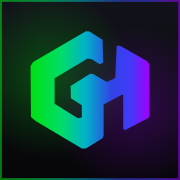
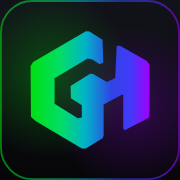
As linhas do ATO 0 drenam para o centro, e a borda do ícone sobrevive à máscara
Dois relatos dele, e nos dois o defeito não era onde parecia.

## AS LINHAS

*"Ao fim das animações as linhas somem aos poucos, mas fica uns pontos
estranhos ali no meio."* E junto: *"tem uma verde que parou no meio da
trajetória."* São dois defeitos, e o segundo explica o primeiro.

1. O DESBOTAMENTO PARADO. O traço chegava ao centro em 56% do ciclo e só
   então perdia opacidade, até 74% — 2,3 s desbotando inteiro e imóvel.
   Com cinco atrasos diferentes, sempre havia traços em fases distintas,
   e o que sobrava perto do centro eram pedaços fracos de várias linhas
   ao mesmo tempo. Os "pontos estranhos".

   O conserto não é apagar mais rápido: é apagar pelo LADO CERTO. O
   `dashoffset` agora vai a NEGATIVO — a cauda entra atrás da cabeça, a
   linha some pela ponta de fora e o último pedaço visível é o do
   centro. Absorvida, não desbotada. E como nunca fica parada, não sobra
   nada no meio.

2. A LINHA QUE PARAVA. `stroke-dasharray` é medido em unidades do
   `viewBox`, e as cinco têm comprimentos reais diferentes (~26 a ~42).
   Pior: com `preserveAspectRatio="none"` o `viewBox` é esticado
   DESIGUALMENTE, então o comprimento efetivo muda com a proporção da
   tela. `pathLength="100"` normaliza — traço e dasharray passam a falar
   a mesma língua.

MEDIDO em navegador, um ciclo inteiro: cada traço percorre
100 -> 0 -> -100 sem parar em nenhum valor, escalonados pelos atrasos.

## A BORDA DO ÍCONE
[…]

diff --git a/src/lib/__tests__/sinaisDoAtoZero.test.js b/src/lib/__tests__/sinaisDoAtoZero.test.js
@@ -290,3 +290,69 @@ describe('as ligações do ATO 0 são ENERGIA, e existem no celular', () => {
     ).toBe(true);
   });
 });
+
+describe('as ligações do ATO 0 são ABSORVIDAS, não desbotam', () => {
+  const SINAIS = 'src/components/landing/prologo/SinaisDeVida.jsx';
+  const CSS = 'src/estilos/sinaisDeVida.css';
+
+  it('o traço DRENA para o centro — `dashoffset` chega a negativo', () => {
+    // `[12/09]` *"Ao fim das animações as linhas somem aos poucos, mas fica uns
+    // pontos estranhos ali no meio."*
+    //
+    // A causa: o traço chegava ao centro e ficava 2,3 s desbotando INTEIRO e
+    // imóvel. Com cinco atrasos diferentes, sempre havia pedaços fracos de
+    // várias linhas ao mesmo tempo perto do centro.
+    //
+    // Levar o `dashoffset` a negativo faz a cauda entrar atrás da cabeça: a
+    // linha some pela ponta de FORA e o último pedaço visível é o do centro.
+    // Absorvida, não apagada.
+    const css = FONTE(CSS);
+    const quadro = css.slice(css.indexOf('@keyframes tracoDeConexao'));
+    const bloco = quadro.slice(0, quadro.indexOf('\n}'));
+    expect(
+      /stroke-dashoffset:\s*-\d/.test(bloco),
+      'O traço voltou a DESBOTAR em vez de drenar.\n'
+      + '  Sem `dashoffset` negativo ele chega ao centro e fica parado perdendo\n'
+      + '  opacidade — e como os cinco têm atrasos diferentes, sobram pedaços\n'
+      + '  fracos de várias linhas no meio ao mesmo tempo. Foi exatamente isso\n'
+      + '  que o dono chamou de "pontos estranhos ali no meio".',
+    ).toBe(true);
+  });
+
+  it('a opacidade não faz o trabalho de apagar', () => {
+    // A trava do desbotamento longo: entre o quadro em que o traço está
+    // INTEIRO (dashoffset 0) e o quadro em que ele começa a sumir, a opacidade
+    // precisa continuar em 1 — quem apaga é a geometria.
+    const css = FONTE(CSS);
+    const quadro = css.slice(css.indexOf('@keyframes tracoDeConexao'));
+    const bloco = quadro.slice(0, quadro.indexOf('\n}'));
+
+    const cheio = bloco.match(/(\d+)%\s*\{\s*stroke-dashoffset:\s*0(?:px)?;\s*opacity:\s*([\d.]+)/);
+    expect(cheio, 'Não achei o quadro do traço INTEIRO — a trava ficaria vazia.').toBeTruthy();
+    expect(
+      Number(cheio[2]),
+      `No instante em que o traço está inteiro (${cheio[1]}%) a opacidade já é `
+      + `${cheio[2]}.\n`
+      + '  Ele precisa chegar ao centro em opacidade CHEIA e sumir pela\n'
+      + '  geometria. Opacidade caindo com o traço inteiro é o desbotamento\n'
+      + '  parado que produziu os "pontos estranhos".',
+    ).toBe(1);
+  });
+
+  it('toda linha mede o MESMO comprimento para o tracejado', () => {
+    // `[12/09]` *"Tem uma verde que parou no meio da trajetória."*
+    //
+    // `stroke-dasharray` é medido em unidades do `viewBox`, e as cinco linhas
+    // têm comprimentos reais diferentes (~26 a ~42). Com
+    // `preserveAspectRatio="none"` o `viewBox` ainda é esticado DESIGUALMENTE,
+    // então o comprimento efetivo muda com a proporção da tela.
+    expect(
+      /pathLength="100"/.test(FONTE(SINAIS)),
+      'As ligações perderam o `pathLength="100"`.\n'
+      + '  Sem ele, o `stroke-dasharray: 100` do CSS significa uma fração\n'
+      + '  diferente em cada linha — e muda de novo conforme a proporção da\n'
+      + '  tela, porque o SVG não preserva o aspecto. O sintoma é uma linha\n'
+      + '  desenhando até o meio e parando.',
+    ).toBe(true);
+  });
+});

diff --git a/src/estilos/sinaisDeVida.css b/src/estilos/sinaisDeVida.css
@@ -77,13 +77,36 @@
 /* `[12/09]` A opacidade de pico subiu de 0,6 para 1: *"senti elas bem
  * apagadinhas"*. O gradiente já faz o traço nascer transparente na borda, então
  * 1 aqui não vira uma linha chapada — vira a ponta chegando no centro com
- * força, que é o pedido dele de *"energia se concentrando ali no meio"*. */
+ * força, que é o pedido dele de *"energia se concentrando ali no meio"*.
+ *
+ * ── `[12/09]` O traço DRENA para o centro; ele não desbota mais ─────────────
+ *
+ * Ele viu e descreveu certo: *"ao fim das animações as linhas somem aos poucos,
+ * mas fica uns pontos estranhos ali no meio, fica feio. Arruma um jeito dessas
+ * linhas sumirem logo após chegarem ao centro"*.
+ *
+ * **O que estava acontecendo.** O traço chegava ao centro em 56% e só então
+ * começava a perder opacidade, até 74% — 2,3 s desbotando **parado e inteiro**.
+ * Como os cinco têm atrasos diferentes, em qualquer instante havia traços em
+ * fases distintas de desbotamento, e o que sobrava perto do centro eram
+ * pedaços fracos de várias linhas ao mesmo tempo: os "pontos estranhos".
+ *
+ * **O conserto não é apagar mais rápido — é apagar pelo LADO CERTO.** Levando o
+ * `dashoffset` para NEGATIVO, a cauda entra atrás da cabeça: a linha some a
+ * partir da ponta de fora, e o último pedaço visível é o que está no centro.
+ * Ela é **absorvida** em vez de desbotar, que é a leitura que ele pediu — e não
+ * sobra nada parado no meio, porque em nenhum momento a linha fica parada.
+ *
+ * A opacidade só cai DEPOIS de o traço já ter sumido pela geometria, então ela
+ * não desenha nada: existe apenas para reiniciar o ciclo limpo. */
 @keyframes tracoDeConexao {
-  0%,  34% { stroke-dashoffset: 100; opacity: 0; }
-  42%      { opacity: 1; }
-  56%      { stroke-dashoffset: 0; opacity: 1; }
-  74%      { stroke-dashoffset: 0; opacity: 0; }
-  100%     { stroke-dashoffset: 100; opacity: 0; }
+  0%,  30% { stroke-dashoffset: 100;  opacity: 0; }
+  33%      { stroke-dashoffset: 100;  opacity: 1; }
+  /* chegou ao centro */
+  50%      { stroke-dashoffset: 0;    opacity: 1; }
+  /* a cauda entra atrás: a linha é sugada para dentro */
+  64%      { stroke-dashoffset: -100; opacity: 1; }
+  65%, 100% { stroke-dashoffset: -100; opacity: 0; }
 }
 
 /* O núcleo respira devagar — 5,2 s, mais lento que qualquer outra coisa da
@@ -115,8 +138,15 @@
  * 2,8 s), os cinco nascem acesos e apagam **um a um**, na ordem do atraso.
  *
  * Medido antes do conserto, em navegador: aos 400 ms, 4 dos 5 traços estavam
- * com opacidade 1 e `dashoffset` 0 — ou seja, desenhados por inteiro. Aos
- * 3.200 ms, zero. Os tempos batem exatamente com os atrasos.
+ * com **opacidade 1**; aos 3.200 ms, zero. Os tempos batem exatamente com os
+ * atrasos (0,7 · 1,4 · 2,1 · 2,8 s), que é o que prova o mecanismo.
+ *
+ * > **Correção do mesmo dia:** a primeira redação desta nota dizia "opacidade 1
+ * > e `dashoffset` 0". O segundo número era artefato do MEU instrumento —
+ * > `getComputedStyle` devolve `"100px"`, e o `Number()` que eu usei virava
+ * > `NaN`, que o `|| 0` transformava em zero. A opacidade (sem unidade) foi
+ * > medida corretamente e sustenta o diagnóstico sozinha; o `dashoffset`
+ * > daquela leitura não valia nada e saiu daqui.
  *
  * `backwards` manda aplicar o quadro de 0% JÁ durante o atraso. Uma palavra.
  *

diff --git a/src/components/landing/prologo/SinaisDeVida.jsx b/src/components/landing/prologo/SinaisDeVida.jsx
@@ -288,6 +288,22 @@ export default function SinaisDeVida({ progresso }) {
             // dos chips. A convergência do hero usa 1,4 pelo mesmo motivo.
             stroke={`url(#ligacao-${i})`} strokeWidth="1.6"
             vectorEffect="non-scaling-stroke"
+            // `[12/09]` `pathLength="100"` NORMALIZA o comprimento de cada
+            // linha para 100, e sem isso o tracejado não é confiável aqui.
+            //
+            // As cinco têm comprimentos reais diferentes (de ~26 a ~42
+            // unidades do `viewBox`), e o `stroke-dasharray: 100` do CSS é
+            // medido nessas unidades. Pior: o SVG usa
+            // `preserveAspectRatio="none"`, então o `viewBox` é esticado de
+            // forma DESIGUAL — o comprimento efetivo muda com a proporção da
+            // tela. O resultado é cada linha desenhando e drenando num ritmo
+            // próprio, e foi o que o dono viu: *"tem uma verde que parou no
+            // meio da trajetória até o meio"*.
+            //
+            // Com `pathLength`, o navegador passa a tratar toda linha como se
+            // medisse 100. O traço e o dasharray passam a falar a mesma língua,
+            // e as cinco entram e saem no mesmo tempo relativo.
+            pathLength="100"
             style={{ animationDelay: atraso, filter: `drop-shadow(0 0 3px ${cor}aa)` }}
           />
         ))}

diff --git a/docs/DECISOES.md b/docs/DECISOES.md
@@ -2195,9 +2195,9 @@ atrasos escalonados, somem em cascata.
 
 **Medido em navegador antes do conserto**, e os tempos batem com os atrasos:
 
-| t | traços desenhados |
+| t | traços com opacidade 1 |
 | --- | --- |
-| 400 ms | **4 de 5** (opacidade 1, `dashoffset` 0) |
+| 400 ms | **4 de 5** |
 | 1.200 ms | 3 |
 | 2.000 ms | 2 |
 | 3.200 ms | 0 — só então o ciclo real começa |
@@ -2285,3 +2285,38 @@ aberto — e este é.
 segredo próprio. Isso é infraestrutura nova, com chave nova para rodar e vazar,
 para proteger um número. Não passa na conta do §0.2: *antes de ligar qualquer
 coisa nova, perguntar quantas vezes ela roda e o que ela custa*.
+
+### `[12/09]` As linhas do ATO 0 passaram a DRENAR para o centro
+
+Ele viu, e a descrição estava certa: *"ao fim das animações as linhas somem aos
+poucos, mas fica uns pontos estranhos ali no meio, fica feio. Arruma um jeito
+dessas linhas sumirem logo após chegarem ao centro"*. E junto: *"tem uma verde
+que parou no meio da trajetória"*.
+
+**São dois defeitos, e o segundo explica o primeiro.**
+
+**1. O desbotamento parado.** O traço chegava ao centro em 56% do ciclo e só
+então começava a perder opacidade, até 74% — **2,3 s desbotando inteiro e
+imóvel**. Com cinco atrasos diferentes, em qualquer instante havia traços em
+fases distintas de desbotamento, e o que sobrava perto do centro eram pedaços
+fracos de várias linhas ao mesmo tempo. Os "pontos estranhos".
+
+**O conserto não é apagar mais rápido — é apagar pelo LADO CERTO.** O
+`stroke-dashoffset` agora vai para **negativo**: a cauda entra atrás da cabeça,
+a linha some a partir da ponta de fora, e o último pedaço visível é o do centro.
+Ela é **absorvida** em vez de desbotar. E como nunca fica parada, não sobra nada
+no meio.
+
+**2. A linha que parava no meio.** `stroke-dasharray: 100` é medido em unidades
+do `viewBox`, e as cinco linhas têm comprimentos reais diferentes (~26 a ~42).
+Pior: o SVG usa `preserveAspectRatio="none"`, então o `viewBox` é esticado de
+forma **desigual** — o comprimento efetivo muda com a proporção da tela. Cada
+linha desenhava e drenava num ritmo próprio.
+
+`pathLength="100"` normaliza: o navegador passa a tratar toda linha como se
+medisse 100, e o traço e o dasharray falam a mesma língua.
+
+**Medido depois**, um ciclo inteiro em navegador: cada traço percorre
+`100 → 0 → −100` sem parar em nenhum valor, e os cinco entram escalonados pelos
+atrasos. Antes desta correção o `dashoffset` sequer podia ser medido pelo meu
+instrumento — ver a nota de correção em `sinaisDeVida.css`.

diff --git a/docs/regras/AUDITORIA.md b/docs/regras/AUDITORIA.md
@@ -48,7 +48,7 @@ digitado à mão:
 
 | | |
 | --- | --- |
-| código em `src/` | <!--n:src.arquivos-->377<!--/n--> arquivos · <!--n:src.linhas-->39.386<!--/n--> linhas |
+| código em `src/` | <!--n:src.arquivos-->377<!--/n--> arquivos · <!--n:src.linhas-->39.468<!--/n--> linhas |
 | dividido em | `lib` <!--n:src.lib.arquivos-->114<!--/n--> · `components` <!--n:src.components.arquivos-->178<!--/n--> · `hooks` <!--n:src.hooks.arquivos-->43<!--/n--> · `pages` <!--n:src.pages.arquivos-->22<!--/n--> · `services` <!--n:src.services.arquivos-->17<!--/n--> |
 | rede de testes | <!--n:testes.arquivos-->79<!--/n--> arquivos de teste · <!--n:e2e.roteiros-->17<!--/n--> roteiros de navegador |
 | Edge Functions | <!--n:edge.funcoes-->8<!--/n--> |
@@ -65,7 +65,7 @@ digitado à mão:
 > *"o padrão é ler tudo"*, sustentada pela frase *"este projeto tem ~14 mil
 > linhas, isso é lível por inteiro"*. Era verdade quando foi escrita; o projeto
 > **dobrou** — <!--n:src.arquivos-->377<!--/n--> arquivos,
-> <!--n:src.linhas-->39.386<!--/n--> linhas, e 73 funções `SECURITY DEFINER`
+> <!--n:src.linhas-->39.468<!--/n--> linhas, e 73 funções `SECURITY DEFINER`
 > *(este último é o retrato de 03/09, congelado; eram **77** em 10/09)* — e a
 > frase sobreviveu ao fato. Foi esse caso que produziu o portão
 > `numeros-do-projeto.mjs` (ver [DOCUMENTACAO.md](DOCUMENTACAO.md)).

diff --git a/docs/identidade/README.md b/docs/identidade/README.md
@@ -216,6 +216,20 @@ o que desenha a silhueta no preto. Nada disso toca o desenho da marca.
 > tamanhos gerados, e a cor é o gradiente da marca em vez de branco — a borda
 > passou a ser assinatura, não contorno. Tem trava: ela reprova espessura
 > constante.
+>
+> **E ela ainda não aparecia na TELA DE INÍCIO — segundo defeito, outra causa.**
+> O dono mandou dois prints: o arquivo aberto em tamanho grande **com** a borda,
+> e a tela de início **sem** ela. Os dois estavam certos.
+>
+> O manifesto declara `icone-maskable-512.webp` com `purpose: maskable`, e o
+> Android **prefere esse arquivo** no launcher — depois aplica a máscara dele por
+> cima, que garante apenas o **círculo central de 80%**. Borda desenhada na borda
+> é exatamente o que essa máscara come.
+>
+> O `maskable` passou a ter `recuoDaBorda: 0.11`: a borda cai dentro da zona
+> segura e sobrevive ao corte. Nos ícones que **não** são maskable o recuo é
+> zero — ali ninguém corta, e a borda na borda é o que desenha a silhueta contra
+> o preto.
 
 Travas em `src/lib/__tests__/marca.test.js`: o favicon tem que conter o mesmo
 caminho do componente; o raio não pode voltar como marca; ninguém pode copiar o

diff --git a/docs/OPERACAO.md b/docs/OPERACAO.md
@@ -1141,7 +1141,7 @@ Cobrança do dono, no mesmo dia: *"toda a documentação do projeto, não falo
 algumas, todas! todas devem estar atualizadas, e em uma única sessão"* — depois
 de eu achar que `docs/regras/AUDITORIA.md` afirmava *"131 arquivos / 14.362
 linhas"* num projeto de <!--n:src.arquivos-->377<!--/n--> arquivos e
-<!--n:src.linhas-->39.386<!--/n--> linhas.
+<!--n:src.linhas-->39.468<!--/n--> linhas.
 
 **Os três portões existentes aprovaram aquilo, e cada um por um motivo
 diferente** — o que prova que não era descuido de nenhum deles, e sim uma
@@ -1190,7 +1190,7 @@ sem pedir que a documentação acompanhasse.
 
 Nenhum deles responde *"este parágrafo em português ainda é verdade?"*. Essa
 continua sendo leitura humana, e é por isso que `npm run docs` existe: em vez de
-mandar reler <!--n:docs.linhas-->17.522<!--/n--> linhas por precaução — o que
+mandar reler <!--n:docs.linhas-->17.575<!--/n--> linhas por precaução — o que
 custa contexto e, por custar, acaba não acontecendo —, ele diz **quais** abrir e
 **o que mudou embaixo de cada um**.
 

diff --git a/docs/ARQUITETURA.md b/docs/ARQUITETURA.md
@@ -33,7 +33,11 @@ src/
 │   │                      # principal.
 │   │                      # `[12/09]` Toda animação com atraso aqui declara
 │   │                      # `backwards`: sem ele o elemento nasce ACESO durante
-│   │                      # a espera. Tem trava de classe varrendo os estilos
+│   │                      # a espera. Tem trava de classe varrendo os estilos.
+│   │                      # `[12/09]` As ligações DRENAM (dashoffset até -100):
+│   │                      # a cauda entra atrás da cabeça e a linha é absorvida
+│   │                      # pelo centro. Desbotar parada deixava pedaços fracos
+│   │                      # de várias linhas no meio ao mesmo tempo
 │   ├── cofre.css          # `[05/09]` o giro do disco do cofre do Fundador
 │   ├── portao.css         # `[05/09]` só os 3 @import do portão, e a ordem
 │   ├── portao/            # o portão de boas-vindas, em 3 partes

diff --git a/docs/regras/DOCUMENTACAO.md b/docs/regras/DOCUMENTACAO.md
@@ -259,7 +259,7 @@ Nenhum portão responde *"este parágrafo em português ainda é verdade?"*. Fin
 que responde seria pior do que não ter portão (§6.3).
 
 O que mudou é o **custo** dessa leitura. Mandar reler
-<!--n:docs.linhas-->17.522<!--/n--> linhas por precaução a cada sessão consome
+<!--n:docs.linhas-->17.575<!--/n--> linhas por precaução a cada sessão consome
 contexto que deveria ir para o trabalho (§0.1) — e regra cara demais é regra que
 deixa de ser cumprida, que é como a camada 3 falhou quatro vezes. `npm run docs`
 cruza o que a sessão mexeu com o mapa de territórios e devolve **quais** abrir e

diff --git a/BACKLOG.md b/BACKLOG.md
@@ -1249,7 +1249,7 @@ dependência técnica real** que decide o resto:
   dono — fica por último.* Não descartada: quando a hora chegar, a análise de
   28/08 recomenda fazer por fronteira, e não de uma vez. As duas primeiras
   fatias (`src/lib/`, <!--n:src.lib.arquivos-->114<!--/n--> arq ·
-  <!--n:src.lib.linhas-->11.714<!--/n--> linhas; `src/services/`,
+  <!--n:src.lib.linhas-->11.780<!--/n--> linhas; `src/services/`,
   <!--n:src.services.arquivos-->17<!--/n--> arq ·
   <!--n:src.services.linhas-->1.825<!--/n--> linhas) concentram quase todo o
   benefício — é onde mora

diff --git a/docs/regras/EXECUCAO.md b/docs/regras/EXECUCAO.md
@@ -24,7 +24,7 @@
 
 ### 9.1 Por que ele existe, com o número que decidiu o formato
 
-O projeto tem <!--n:docs.linhas-->17.522<!--/n--> linhas de documentação, e
+O projeto tem <!--n:docs.linhas-->17.575<!--/n--> linhas de documentação, e
 `CLAUDE.md` + `docs/regras/` são **injetados em toda sessão**. Isso é uma
 vantagem — o conhecimento não se perde entre sessões. Mas tentar manter tudo
 **ativo** enquanto executo uma tarefa foi o que produziu as três falhas de
